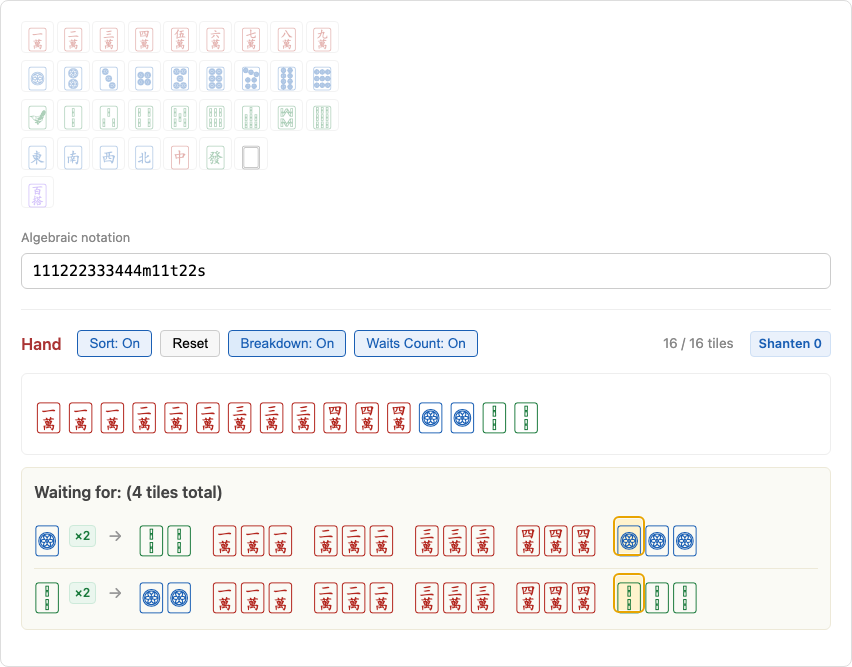
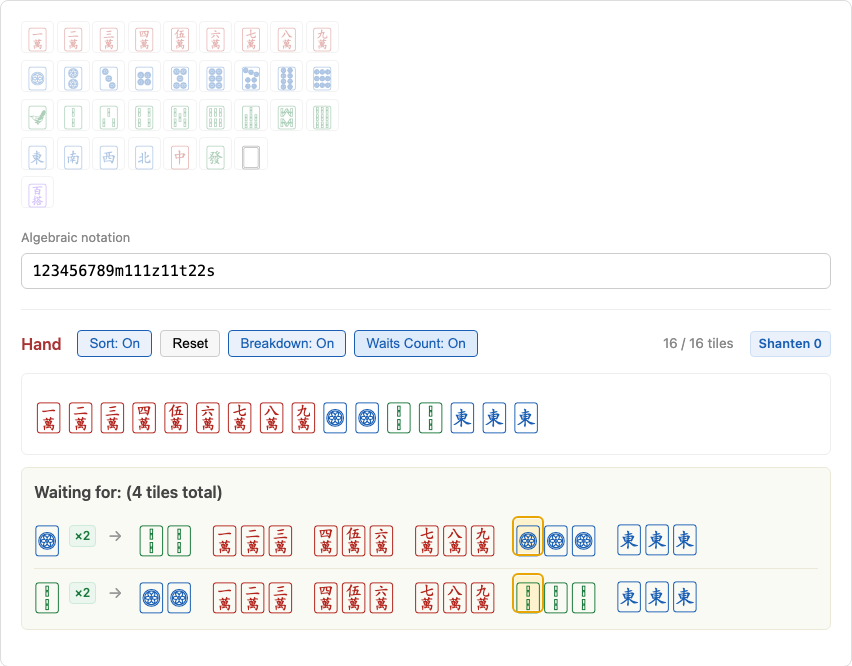
Replace ambiguous hero example, add screenshots for more features
111222333444m11t22s decomposes two valid ways (four triplets, or
three runs + a triplet), which is a confusing teaching example even
though the app's answer isn't wrong. Replaced it with
123456789m111z11t22s - a straight run only decomposes one way, so
the shanpon wait it demonstrates is unambiguous.

Added three more screenshots, each next to the feature it shows:
jokers + universal wait (1mjjj), the discard efficiency calculator
(the worked example from earlier in the app's development), and a
tenpai Sixteen Unrelated Tiles hand.

diff --git a/README.md b/README.md
@@ -4,13 +4,13 @@ A waits calculator for Taiwanese (16-tile) Mahjong. Build a hand, and it tells y
 
 **Live app: [app.kevinlhc.com/mjwaits](https://app.kevinlhc.com/mjwaits/)**
 
-![A tenpai hand with breakdown and waits count both enabled](docs/preview.png)
+![A tenpai hand — 123456789m111z11t22s — with breakdown and waits count both enabled, showing a shanpon (dual pair) wait on 1 Pin / 2 Sou](docs/preview.png)
 
 ## Features
 
 ### Hand input
 
-- **Tap tiles** on the picker, or **type algebraic notation** directly (e.g. `111222333444m11t22s`) — the two stay in sync.
+- **Tap tiles** on the picker, or **type algebraic notation** directly (e.g. `123456789m111z11t22s`) — the two stay in sync.
 - Suits: `m` (man/characters), `t` (pin/circles), `s` (sou/bamboo), `z` (honors, 1–7 for East/South/West/North/Red/Green/White), `j` (joker).
 - **Sort mode** toggle: on, new tiles are kept in sorted order as you add them; off, they stay exactly in the order you entered them — and toggling back off reverts to that original order.
 - A 4-copies-per-kind cap is enforced automatically (jokers excluded — see below).
@@ -26,6 +26,8 @@ A waits calculator for Taiwanese (16-tile) Mahjong. Build a hand, and it tells y
 
 Jokers are wildcards standing in for any tile. Add any number of them to a hand and the calculator works out every wait they unlock, along with what each joker resolves to for a given wait — using a wildcard-budget search rather than brute-forcing every possible substitution, so it stays fast even with many jokers in hand.
 
+![1m + 3 jokers, showing the universal wait banner and all 34 waits with joker resolution hints](docs/jokers.png)
+
 ### Shanten
 
 A full numeric shanten calculator (not just tenpai/not-tenpai) — the minimum number of discard+draw exchanges needed to reach tenpai. Covers the standard meld+pair shape plus the special hands below.
@@ -33,6 +35,8 @@ A full numeric shanten calculator (not just tenpai/not-tenpai) — the minimum n
 ### Discard efficiency calculator
 
 When a 16-tile hand isn't tenpai, the app suggests discards and shows a two-step lookahead for each one: for every useful draw, how many copies of that tile remain, and what the hand would then be waiting on (with its own remaining count). Discards are ranked by a weighted score combining both, so you can see which discard actually gives the best odds of reaching a win — not just which one reaches tenpai fastest.
+
+![Discarding 5 Pin from 1278m555t111333777z scores highest: drawing 3m (4 copies left) leads to a wait on 6m/9m worth 8 tiles](docs/discard-efficiency.png)
 
 ### Special hands
 
@@ -42,12 +46,14 @@ Beyond the standard 5-melds-plus-a-pair shape, the calculator recognizes:
 - **Eight Pairs ("Liguligu")** — seven pairs plus one tripled pair (a full quad also counts as two pairs).
 - **Sixteen Unrelated Tiles** — all 7 honors plus 3 mutually "unrelated" ranks from each of man/pin/sou (no two close enough to ever share a chow), plus one tile doubling any of them for the pair.
 
+![A tenpai Sixteen Unrelated Tiles hand (147t258m369s1234567z), waiting on all 16 of its own kinds for 48 tiles total](docs/special-hand.png)
+
 ## Notation reference
 
 ```
-111222333444m11t22s   5 melds + a pair
-1278m555t111333777z   mixed suits and honors
-jjjj                   4 jokers, no rank needed
+123456789m111z11t22s   5 melds + a pair
+1278m555t111333777z    mixed suits and honors
+jjjj                    4 jokers, no rank needed
 ```
 
 Digits before a suit letter are that many tiles of that suit; jokers are written as a run of bare `j` characters since they have no rank.
